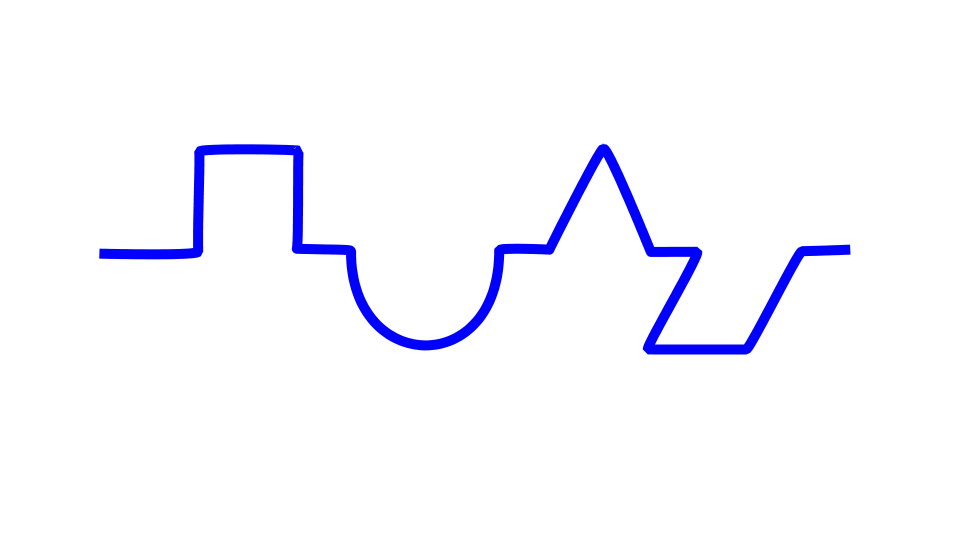
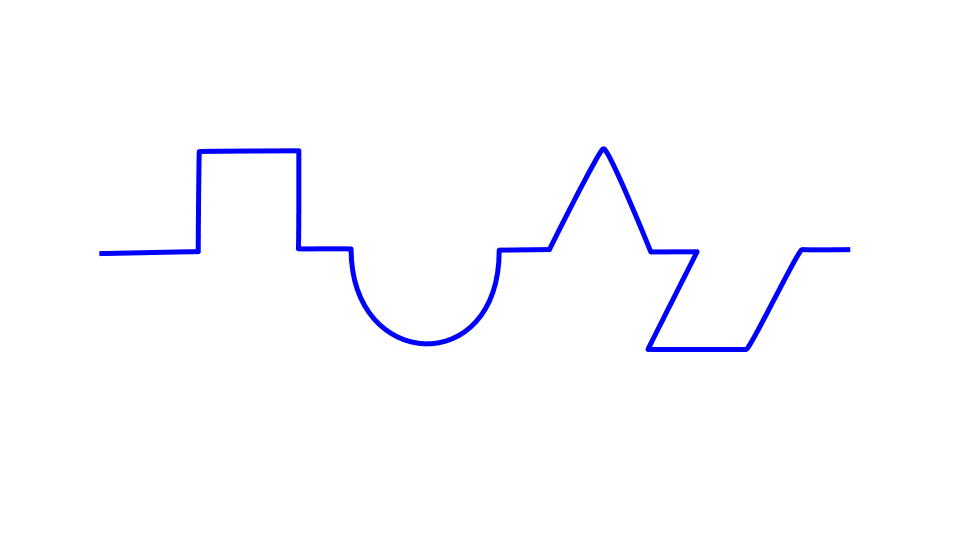
46

diff --git a/rb/public/repi_brain.js b/rb/public/repi_brain.js
@@ -18,7 +18,7 @@
 
 	var orgComp = document.getElementById('orgComp');							//元データの描画結果
 	var useComp = document.getElementById('useComp');							//判定ボタン；トレース後の描画結果
-	useComp.style.display="none";												//判定ボタン
+	// useComp.style.display="none";												//判定ボタン
 
 	var graficOptions = document.getElementById('graficOptions');				//グラフィック設定
 	var lineWidthSelect = document.getElementById('lineWidthSelect');			//線の太さ
@@ -38,7 +38,7 @@
 	};
 	var isMirror=false;				//上下鏡面動作
 	var is_h_Mirror=false;				//左右鏡面動作
-	var isAutoJudge=true;				//トレース後に自動判定
+	var isAutoJudge=false;				//トレース後に自動判定
 	var isComp=false;				//比較中	;scoreStartRadyでtrueに設定
 	var orgCount=0;
 	var compCount=0;
@@ -341,6 +341,24 @@
 	  myLog(dbMsg);
   }
 
+  function setLineWidthVal(setVal) {
+  	var dbMsg = "[setLineWidthVal]setVal="+setVal;
+	if(setVal<=5){
+		setVal = 5;
+	}else if(setVal<=10){
+		setVal = 10;
+	}else if(setVal<=20){
+		setVal = 20;
+	}else{
+		setVal = 50;
+	}
+	dbMsg += ">>"+setVal;
+	lineWidthSelect.value=setVal;
+	currentWidth =setVal;
+	myLog(dbMsg);
+}
+
+
   document.getElementById("to_control_Select").onchange = function() {
   	var dbMsg = "[to_control_Select]";
   	var currenttype =this.value;			 // current.color = e.target.className.split(' ')[1];
@@ -462,10 +480,10 @@
 		var cWidth = canvas.width;
 		var cHeight = canvas.height;
 		dbMsg += "["+ cWidth + "×"+ cHeight + "]";
-		var lWidth=context.lineWidth;
-		dbMsg += "lineWidth=" + lWidth;
+		// var lWidth=context.lineWidth;
+		// dbMsg += "lineWidth=" + lWidth;
 		dbMsg += ",orgColo="+ orgColor;
-		$('#modalComent').innerHTML = "["+ cWidth + "×"+ cHeight + "]を線幅" +lWidth+"で分割\n" ;
+		$('#modalComent').innerHTML = "["+ cWidth + "×"+ cHeight + "]";				//"を線幅" +lWidth+"で分割\n" ;
 		$('#modal_box').modal('show');
 		scoreStart();
 		$('#modal_box').modal('hide');        // 3；モーダル自体を閉じている
@@ -585,6 +603,7 @@
 			room : "/" + roomVal ,
 			width:currentWidth
 		});
+		// context.lineWidth = currentWidth*1;
 		myLog(dbMsg);
 	}
 
@@ -744,6 +763,9 @@
 		mobileLog(dbMsg);
 	});
 
+	/**
+	*トレースラインの設定
+	*/
 	socket.on('sendcomp', function(data) {
 		var dbMsg = "recive[sendcomp]";
 		isComp =true;
@@ -751,7 +773,7 @@
 		current.color =data.color;
 		colorPalet.value=current.color;
 		currentWidth= data.width;
-		lineWidthSelect.value=currentWidth;
+		setLineWidthVal(currentWidth);
 		currentLineCap =  data.lineCap;
 		lineCapSelect.value=currentLineCap;
 		myLog(dbMsg);
@@ -769,7 +791,7 @@
 		var dbMsg = "recive:changeLineWidth;";
 		currentWidth = data.width;
 		dbMsg += "="+currentWidth;
-		lineWidthSelect.value=currentWidth;										//セレクタの表示も変更
+		setLineWidthVal(currentWidth);										//セレクタの表示も変更
 		myLog(dbMsg);
 	});
 
@@ -823,6 +845,7 @@
 			if(isErasre){
 				dColor=erasreColor;
 			}
+			dbMsg += ",color=" +dColor+ ",width=" + currentWidth;
 			drawLine( eX,  eY, eX, eY, dColor , currentWidth , currentLineCap , 0 , true);
 	          //htmlの場合は不要、Androidネイティブは書き出しでパスを生成するので必要    //一点しかないので始点終点とも同じ座標を渡すし
 		}else if(drowMode == 'text'){
@@ -846,7 +869,7 @@
 			drawing = false;
 			typeSelect.options[0].selected = true;										//確定
 		}else{
-			context.beginPath();     // 1.Pathで描画を開始する
+			// context.beginPath();     // 1.Pathで描画を開始する
 		}
 		myLog(dbMsg);
 		// isSmaphoDebug =true;
@@ -1138,11 +1161,11 @@
 		dbMsg += ",color=" + data.color+ ",width=" + data.width+ ",lineCap=" + data.lineCap+ ",action=" + data.action+ ",autojudge=" + data.autojudge;
 		current.color= data.color;
 		context.strokeStyle= data.color;
-		// currentWidth= data.width;
+		currentWidth= data.width*1.0;
 		context.lineCap= data.lineCap;
 		currentLineCap= data.lineCap;
 		isAutoJudge= data.autojudge;
-
+		// drawLine(data.x0 * w, data.y0 * h, data.x1 * w, data.y1 * h, current.color , currentWidth , currentLineCap, data.action , false);
 		drawLine(data.x0 * w, data.y0 * h, data.x1 * w, data.y1 * h, data.color , data.width , data.lineCap , data.action , false);
 		// if( data.action==1){
 		// 	scoreStart();
@@ -1187,22 +1210,25 @@
 			// orgCount++;
 			// dbMsg +="；orgCount=" + orgCount;
 		}
-		context.beginPath();
+		;
+		context.beginPath();													//パスを切ってこれ以降の設定とする
 		context.moveTo(x0, y0); //サブパスの開始点
 		context.lineTo(x1, y1); //直前の座標と指定座標を結ぶ直線を引く
 		dbMsg += "color=" + _color;
 		context.strokeStyle = _color;
-		dbMsg += ">>context=" + context.strokeStyle;
+		dbMsg += ">context>=" + context.strokeStyle;
 
 		dbMsg += ",width=" + _width;
-		context.lineWidth = _width;
-		dbMsg += ">>_width=" + context.lineWidth;
+		context.lineWidth = _width;				//正の整数、もしくは浮動小数点数値
+		dbMsg += ">>=" + context.lineWidth;
 
 		dbMsg += ",lineCap=" + _lineCap;
 		context.lineCap = _lineCap;
-		dbMsg += ">>_lineCap=" + context.lineCap ;
+		dbMsg += ">>=" + context.lineCap ;
 
 		dbMsg +=",action=" + action;
+		// context.moveTo(x0, y0); //サブパスの開始点
+		// context.lineTo(x1, y1); //直前の座標と指定座標を結ぶ直線を引く
 		context.stroke();
 		context.closePath();
 
@@ -1219,7 +1245,7 @@
 				x1: x1 / w,
 				y1: y1 / h,
 				color: context.strokeStyle,
-				width: currentWidth,
+				width: _width,
 				lineCap:currentLineCap,				//context.lineCap,
 				action:action,
 				autojudge:isAutoJudge
@@ -1358,7 +1384,7 @@
 		var cWidth = canvas.width;
 		var cHeight = canvas.height;
 		dbMsg += "["+ cWidth + "×"+ cHeight +  "]";
-		var context = canvas.getContext('2d');
+		// var context = canvas.getContext('2d');
 		originalCanvas = context.getImageData(0, 0, cWidth, cHeight);
 		originPixcel = new Array();											//原版の保持領域初期化
 		originPixcel = originalCanvas.data;					//ファイルから読み込まれたピクセル配列を保持
@@ -1477,8 +1503,9 @@
 				var carentPos =	4 * xPos +  4 * cWidth * yPos ;			//(x,y) = 4x+4wy
 				var mirrorInversion =carentPos
 				switch (direction) {
-					case 1:		//右へ90度;(x,y) => (w/2-(h/2-y) , h/2+(w/2-x))
-						mirrorInversion = (cWidth/2 - (cHeight/2 - yPos) )*4 + (cHeight/2 + (cWidth/2-xPos)) * 4 * cWidth;	//要縮小？
+					case 1:		//右へ90度;(x,y) => (h/2+y , w/2-x)			//×(w/2-(h/2-y) , h/2+(w/2-x))
+					// mirrorInversion =(cHeight/2 - xPos) * 4* cWidth  + ((cHeight/2 - yPos) )*4 *cWidth;	//上ずれ（下に残る）
+						mirrorInversion = (cWidth/2 - (cHeight/2 - yPos) )*4 + (cHeight/2 + (cWidth/2-xPos)) * 4 * cWidth;	//8/20;上ずれ（下に残る）
 						break;
 					case 2:		//左へ90度;(x,y) => (w/2+(h/2-y) , h/2+w/2-x)
 						mirrorInversion = (cWidth/2 + (cHeight/2 - yPos) )*4 + (cHeight/2 - (cWidth/2-xPos)) * 4 * cWidth;	//左右反転
@@ -1580,6 +1607,7 @@
 	var bColor;
 	/**
 	* 使用されている色と線幅を取得
+	* トレースラインの色と太さの設定と送信
 	* @param {*} canvas 捜査対象
 	*/
 	function stereoTypeCheck(canvas) {
@@ -1690,26 +1718,19 @@
 			 });
 			lineWidth = widthrray[1].name;			//0pxが最多になる
 			dbMsg += ">最多lineWidth>"+ lineWidth;
-			if(lineWidth<5){
-				lineWidth =5;
-			}else if(lineWidth<11){
-					lineWidth =10;
-			}else {
-					lineWidth ++;
-			}
-			currentWidth=lineWidth;
+			currentWidth=Math.ceil(lineWidth*2.0);				//トレース戦は太めに
 			dbMsg += ">>"+ currentWidth;
-			lineWidthSelect.value=currentWidth;
+			setLineWidthVal(currentWidth);										//セレクタの表示も変更
 			dbMsg += "；Y軸上"+widthrray[0].value+"個所";
 			dbMsg += ",room=" + roomVal;
-			// socket.emit('changeLineWidth', {
-			// 	room : "/" + roomVal ,
-			// 	width:currentWidth
-			// });
+			socket.emit('changeLineWidth', {
+				room : "/" + roomVal ,
+				width:currentWidth
+			});
 		}
 		scoreStartRady();
 		if(isDebug){
-			document.getElementById('scoreComent').innerHTML = colorArray.length +"色中 対象 "+orgColor + " ;線＝" + lineWidth +"PX";
+			document.getElementById('scoreComent').innerHTML = colorArray.length +"色中 対象 "+orgColor + " ;線＝" + lineWidth +"PX" + ">トレース>" + currentWidth +"PX";
 			var rgba = 'rgba(' + oRed + ',' +oGreen +',' + oBule + ',' + (255 / 255) + ')';
 			document.getElementById('scoreComent').style.background =  rgba;		//r=63,g=72,b=204 ="#3fcc48が正解
 		}
@@ -1771,11 +1792,11 @@
 		dbMsg += ">retRGB>"+ retRGB;		//rgb(255, 0, 255)
 		compColor =rgb2hex(retRGB);
 		current.color=compColor;
-		dbMsg += ">送信値>"+ current.color+ "," +currentWidth+ "," +currentLineCap;
+		dbMsg += ">送信値>"+ current.color+ "," +currentWidth+ "px," +currentLineCap;
 		// dbMsg +=",emit=" + emit;
 		// if (emit) {
 		dbMsg += ",room=" + roomVal;
-		socket.emit('sendcomp', {
+		socket.emit('sendcomp', {												//トレースラインの設定
 			room : "/" + roomVal ,
 			color: compColor,
 			width: currentWidth,

diff --git a/rb/public/util.js b/rb/public/util.js
@@ -1,5 +1,5 @@
 var dbMsg = "[util.js]";
-var isDebug =false;
+var isDebug =true;
 var isSmaphoDebug =false;
 var isMobile=false;				//現在使用しているのはスマホ
 
